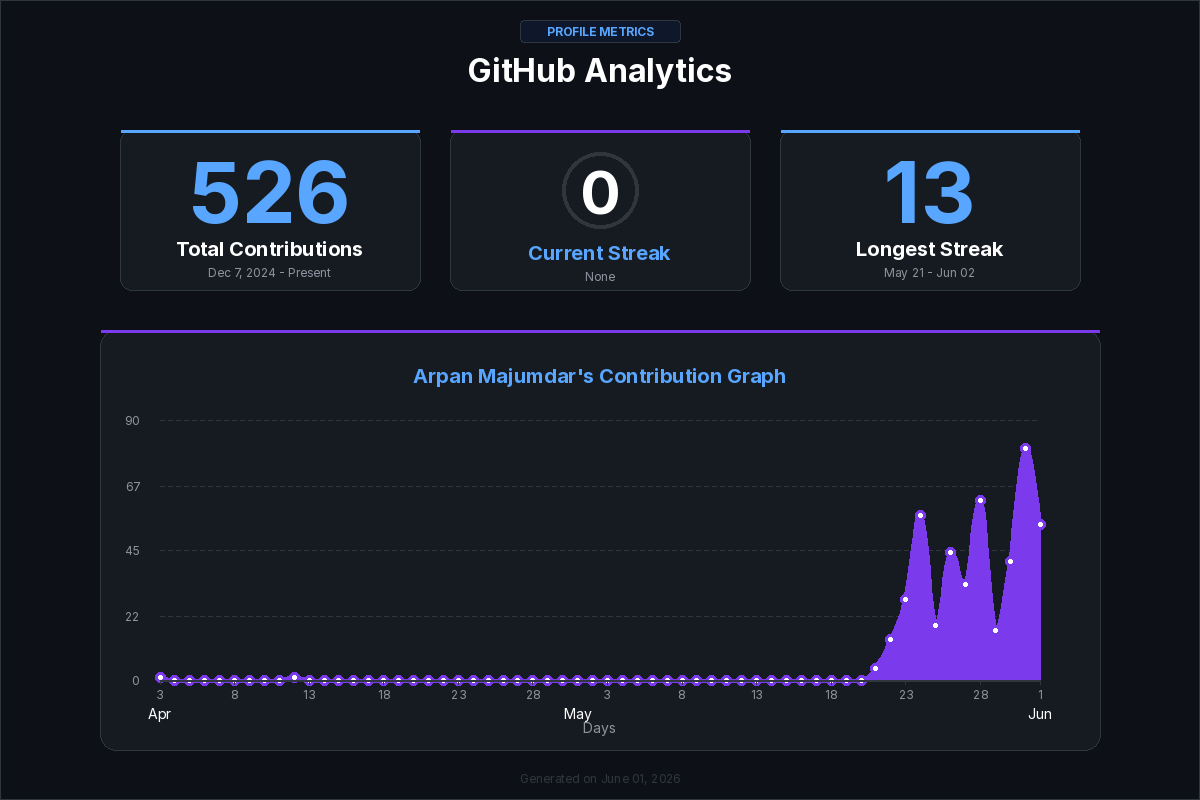
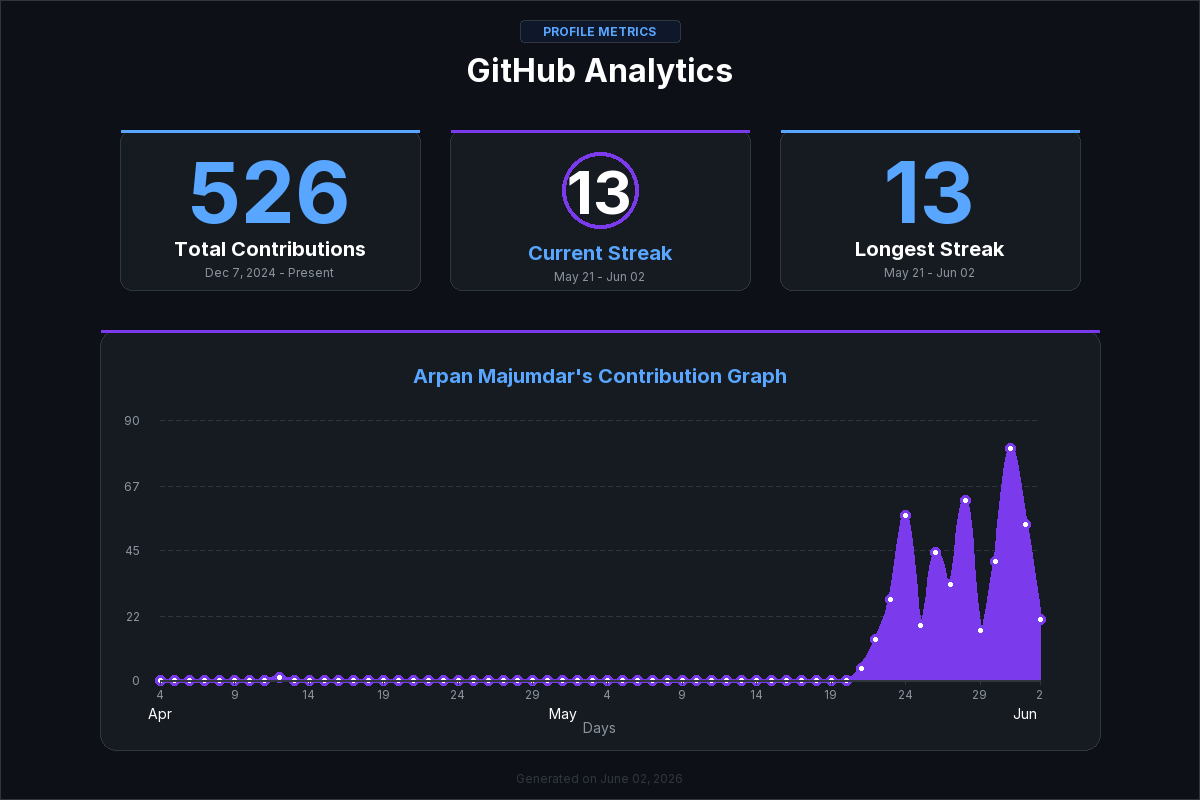
fix: resolve timezone-aware streak and graph generation

diff --git a/generate_github_analytics.py b/generate_github_analytics.py
@@ -8,7 +8,7 @@ Generate GitHub Analytics Dashboard
 
 import requests
 import json
-from datetime import datetime, timedelta
+from datetime import datetime, timedelta, timezone
 import numpy as np
 from PIL import Image, ImageDraw, ImageFont
 import os
@@ -18,6 +18,14 @@ GITHUB_USERNAME = "ArPaN-DS"
 GITHUB_TOKEN = os.getenv("GITHUB_TOKEN", None)  # Set via environment variable or repository secret
 DAYS_BACK = 60  # Change to 30, 60, or 120
 OUTPUT_PATH = "assets/github_analytics.png"
+TIMEZONE_OFFSET = float(os.getenv("TIMEZONE_OFFSET", "5.5"))  # Default to UTC+5.5 (IST)
+
+
+def get_local_now():
+    """Return the current datetime in the user's timezone."""
+    utc_now = datetime.now(timezone.utc).replace(tzinfo=None)
+    return utc_now + timedelta(hours=TIMEZONE_OFFSET)
+
 
 # ── Color Palette (matching profile theme) ──────────────────────
 BG       = (13, 17, 23)       # #0D1117
@@ -97,7 +105,7 @@ def fetch_github_contributions(username, token=None):
     url = "https://api.github.com/graphql"
     
     start_year = 2024
-    current_year = datetime.now().year
+    current_year = get_local_now().year
     
     contributions_by_date = {}
     
@@ -201,7 +209,7 @@ def calculate_streaks(contributions_by_date):
             current_longest_start = curr_date
             
     # Calculate current streak
-    today = datetime.now().date()
+    today = get_local_now().date()
     yesterday = today - timedelta(days=1)
     
     current_streak = 0
@@ -353,7 +361,7 @@ def generate_github_analytics(username, days_back=60, token=None):
     draw.text((W // 2, 375), "Arpan Majumdar's Contribution Graph", fill=BLUE, font=font_label, anchor="mm")
     
     # Gather contribution data list for the last days_back days
-    today = datetime.now().date()
+    today = get_local_now().date()
     contributions_list = []
     dates_list = []
     for i in range(days_back):
@@ -457,7 +465,7 @@ def generate_github_analytics(username, days_back=60, token=None):
     
     # Footer
     footer_y = H - 22
-    draw.text((W // 2, footer_y), f"Generated on {datetime.now().strftime('%B %d, %Y')}", fill=DIM, font=font_xs, anchor="mm")
+    draw.text((W // 2, footer_y), f"Generated on {get_local_now().strftime('%B %d, %Y')}", fill=DIM, font=font_xs, anchor="mm")
     
     # Save image
     os.makedirs(os.path.dirname(OUTPUT_PATH), exist_ok=True)
@@ -471,7 +479,7 @@ def generate_github_analytics(username, days_back=60, token=None):
 def generate_demo_data(days_back):
     """Generate demo contribution data for testing."""
     contributions_by_date = {}
-    today = datetime.now().date()
+    today = get_local_now().date()
     
     start_date = datetime.strptime("2024-12-07", "%Y-%m-%d").date()
     total_days = (today - start_date).days + 1
